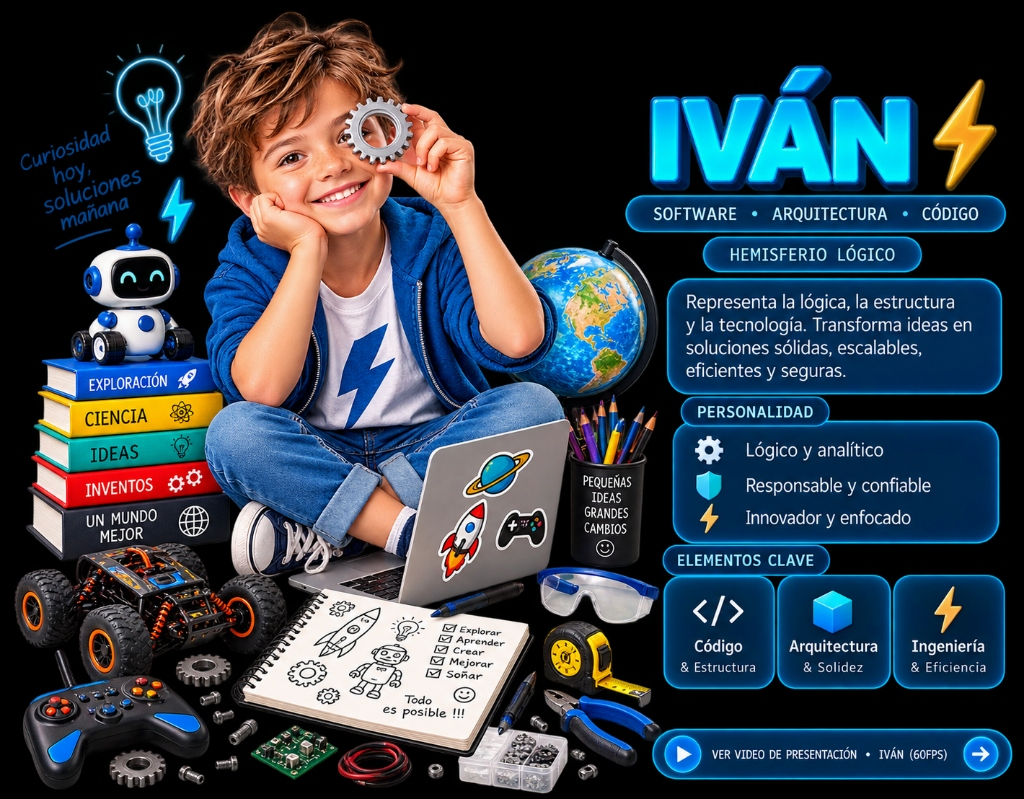
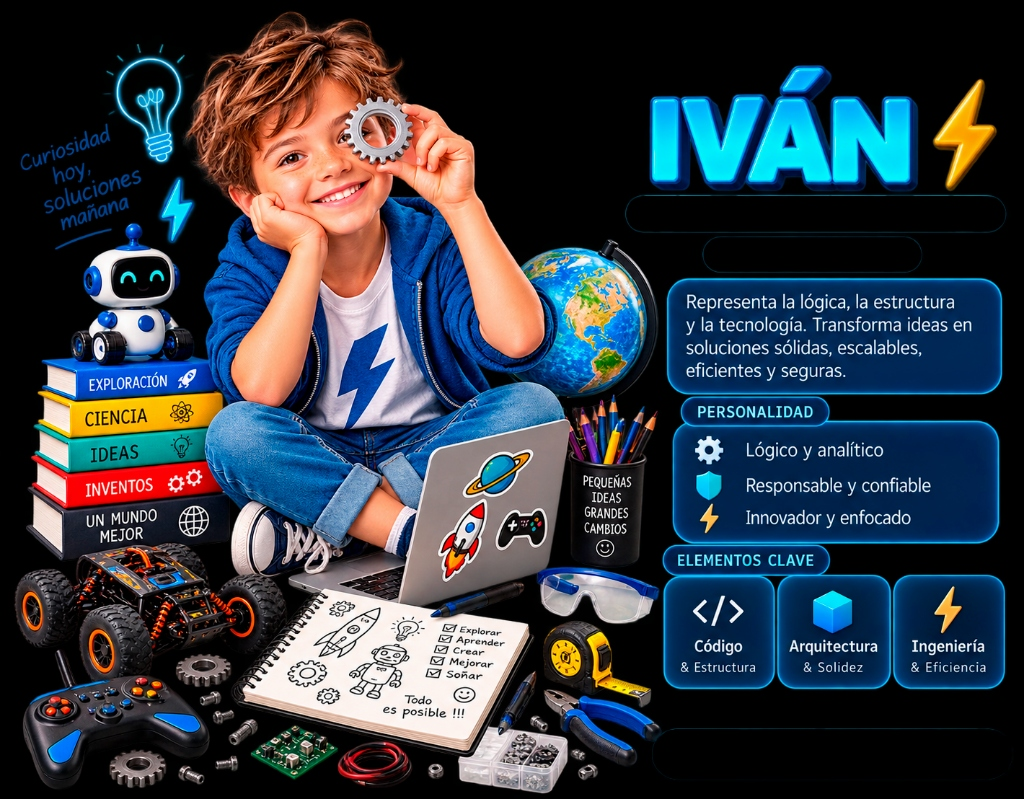
feat(ai-personas): integrate clean 3D master cards with responsive animated badges and interactive glowing video buttons

diff --git a/src/components/ai-personas/AIPersonasSection.tsx b/src/components/ai-personas/AIPersonasSection.tsx
@@ -35,7 +35,7 @@ export default function AIPersonasSection() {
       <div className="absolute top-1/4 left-0 w-96 h-96 bg-[#FF3858]/10 rounded-full blur-[140px] pointer-events-none" />
       <div className="absolute top-1/4 right-0 w-96 h-96 bg-[#00D1FF]/10 rounded-full blur-[140px] pointer-events-none" />
 
-      <div className="max-w-[1440px] mx-auto px-6 sm:px-8 relative z-10 space-y-12">
+      <div className="max-w-[1440px] mx-auto px-4 sm:px-6 lg:px-8 relative z-10 space-y-12">
         {/* Section Header */}
         <div className="text-center max-w-3xl mx-auto space-y-3">
           <div className="inline-flex items-center gap-2 px-4 py-1.5 rounded-full bg-white/[0.04] border border-white/15 text-xs font-mono tracking-wider text-[#FF3858] uppercase shadow-lg">
@@ -66,55 +66,88 @@ export default function AIPersonasSection() {
 
           <div className="grid grid-cols-1 lg:grid-cols-2 gap-8 lg:gap-10 items-stretch">
             {/* ========================================================== */}
-            {/* CARD 1: SOFÍA (3D MASTER PIECE ARTWORK) */}
+            {/* CARD 1: SOFÍA (3D MASTER PIECE CON OVERLAYS ANIMADOS) */}
             {/* ========================================================== */}
-            <div
-              onClick={() =>
-                setActiveVideo({
-                  title: "Sofía",
-                  role: "Dirección UI/UX & Creatividad",
-                  subtitle: "Hemisferio Creativo • Prototipos Interactivos a 60FPS",
-                  videoSrc: "/videos/sofia_presentacion.mp4",
-                  themeColor: "#FF3858",
-                  secondaryColor: "#FF7A00",
-                  avatarImg: "/images/sofia_seated_art.jpg",
-                  icon: "🖌",
-                })
-              }
-              className="group relative rounded-[38px] bg-[#07070F] border-2 border-[#FF3858]/60 hover:border-[#FF3858] backdrop-blur-2xl shadow-[0_20px_60px_rgba(255,56,88,0.22)] hover:shadow-[0_30px_90px_rgba(255,56,88,0.55)] transition-all duration-500 overflow-hidden cursor-pointer hover:scale-[1.015] active:scale-[0.99] flex flex-col justify-between"
-              title="Haz clic para ver el video de presentación oficial de Sofía"
-            >
+            <div className="group relative rounded-[38px] bg-[#07070F] border-2 border-[#FF3858]/60 hover:border-[#FF3858] backdrop-blur-2xl shadow-[0_20px_60px_rgba(255,56,88,0.22)] hover:shadow-[0_30px_90px_rgba(255,56,88,0.55)] transition-all duration-500 overflow-hidden select-none">
               {/* Top Ambient Glow */}
               <div className="absolute top-0 right-0 w-80 h-80 bg-[#FF3858]/20 rounded-full blur-[110px] pointer-events-none" />
 
-              {/* High-Resolution 3D Master Artwork */}
-              <div className="relative w-full aspect-[1024/840] overflow-hidden rounded-[36px]">
+              {/* High-Resolution 3D Master Artwork Container */}
+              <div className="relative w-full aspect-[1024/828] overflow-hidden rounded-[36px]">
                 <Image
                   src="/images/sofia_master_card.jpg"
                   alt="Sofía - Diseño, UX y Creatividad • Hemisferio Creativo Innocentia Tech"
                   fill
-                  className="object-cover transition-transform duration-700 group-hover:scale-[1.02]"
+                  className="object-cover transition-transform duration-700 group-hover:scale-[1.01]"
                   priority
                 />
 
-                {/* Subtle Interactive Hover Highlight */}
-                <div className="absolute inset-0 bg-gradient-to-t from-black/60 via-transparent to-transparent opacity-0 group-hover:opacity-100 transition-opacity duration-300 pointer-events-none" />
-
-                {/* Floating 60FPS Play Badge (Appears on Hover) */}
-                <div className="absolute top-4 right-4 z-20 opacity-0 group-hover:opacity-100 transition-all duration-300 transform translate-y-1 group-hover:translate-y-0">
-                  <div className="px-3 py-1.5 rounded-full bg-[#FF3858] text-white text-[10px] font-mono font-black uppercase tracking-wider flex items-center gap-1.5 shadow-[0_0_20px_#FF3858]">
-                    <Play className="w-3 h-3 fill-white text-white" />
-                    <span>VER VIDEO 60FPS</span>
+                {/* Left Area Click Trigger (Avatar) */}
+                <div
+                  onClick={() =>
+                    setActiveVideo({
+                      title: "Sofía",
+                      role: "Dirección UI/UX & Creatividad",
+                      subtitle: "Hemisferio Creativo • Prototipos Interactivos a 60FPS",
+                      videoSrc: "/videos/sofia_presentacion.mp4",
+                      themeColor: "#FF3858",
+                      secondaryColor: "#FF7A00",
+                      avatarImg: "/images/sofia_seated_art.jpg",
+                      icon: "🖌",
+                    })
+                  }
+                  className="absolute top-0 left-0 bottom-0 w-[48%] z-10 cursor-pointer group/avatar"
+                  title="Haz clic para ver el video de presentación de Sofía"
+                >
+                  <div className="absolute inset-0 flex items-center justify-center opacity-0 group-hover/avatar:opacity-100 transition-opacity duration-300">
+                    <div className="w-14 h-14 rounded-full bg-[#FF3858] text-white flex items-center justify-center shadow-[0_0_35px_#FF3858] transform scale-90 group-hover/avatar:scale-100 transition-transform">
+                      <Play className="w-6 h-6 fill-white ml-0.5" />
+                    </div>
                   </div>
                 </div>
 
-                {/* Interactive Click Target on Bottom Pill Area */}
-                <div className="absolute bottom-3 left-4 right-4 z-20 flex items-center justify-center pointer-events-none">
-                  <div className="w-full py-1 rounded-full opacity-0 group-hover:opacity-100 transition-opacity duration-300 bg-[#FF3858]/20 border border-[#FF3858]/50 backdrop-blur-sm text-center">
-                    <span className="text-[10px] font-mono font-bold text-white uppercase tracking-wider">
-                      ✦ Clic para reproducir video de Sofía ✦
-                    </span>
+                {/* ANIMATED OVERLAY 1: SUBTITLE PILL ("DISEÑO • UX • CREATIVIDAD") */}
+                <div className="absolute top-[26.2%] left-[57.5%] right-[4.5%] flex items-center justify-center pointer-events-none z-10">
+                  <div className="w-full py-0.5 sm:py-1 px-2 rounded-full bg-black/60 border border-[#FF7A00]/50 text-[#FF9E00] text-[9px] sm:text-[11px] md:text-xs font-mono font-bold uppercase tracking-wider text-center shadow-[0_0_10px_rgba(255,122,0,0.3)] backdrop-blur-sm truncate">
+                    DISEÑO • UX • CREATIVIDAD
                   </div>
+                </div>
+
+                {/* ANIMATED OVERLAY 2: HEMISFERIO PILL ("HEMISFERIO CREATIVO") */}
+                <div className="absolute top-[32.2%] left-[62%] right-[11%] flex items-center justify-center pointer-events-none z-10">
+                  <div className="w-full py-0.5 sm:py-1 px-2 rounded-full bg-[#FF3858]/25 border border-[#FF3858]/60 text-[#FF5470] text-[8px] sm:text-[10px] md:text-[11px] font-mono font-extrabold uppercase tracking-wider text-center shadow-[0_0_15px_rgba(255,56,88,0.4)] backdrop-blur-sm animate-pulse truncate">
+                    HEMISFERIO CREATIVO
+                  </div>
+                </div>
+
+                {/* ANIMATED OVERLAY 3: BOTTOM REAL GLOWING VIDEO BUTTON */}
+                <div className="absolute bottom-[2.5%] left-[48.5%] right-[2%] h-[8%] min-h-[30px] sm:min-h-[36px] flex items-center z-20">
+                  <button
+                    type="button"
+                    onClick={() =>
+                      setActiveVideo({
+                        title: "Sofía",
+                        role: "Dirección UI/UX & Creatividad",
+                        subtitle: "Hemisferio Creativo • Prototipos Interactivos a 60FPS",
+                        videoSrc: "/videos/sofia_presentacion.mp4",
+                        themeColor: "#FF3858",
+                        secondaryColor: "#FF7A00",
+                        avatarImg: "/images/sofia_seated_art.jpg",
+                        icon: "🖌",
+                      })
+                    }
+                    className="w-full h-full px-2 sm:px-3 rounded-full bg-gradient-to-r from-[#FF3858]/90 via-[#FF5470] to-[#FF7A00]/90 hover:from-[#FF4D6D] hover:to-[#FF8800] border border-white/30 text-white font-mono font-black text-[9px] sm:text-[10px] md:text-xs tracking-wider flex items-center justify-between gap-1.5 shadow-[0_0_25px_rgba(255,56,88,0.5)] hover:shadow-[0_0_40px_rgba(255,56,88,0.8)] transition-all cursor-pointer hover:scale-[1.02] active:scale-98 group/btn"
+                  >
+                    <div className="w-5 h-5 sm:w-6 sm:h-6 rounded-full bg-white/20 flex items-center justify-center flex-shrink-0 group-hover/btn:scale-110 transition-transform">
+                      <Play className="w-2.5 h-2.5 sm:w-3 sm:h-3 fill-white text-white ml-0.5" />
+                    </div>
+                    <span className="uppercase font-extrabold text-white truncate drop-shadow-md">
+                      VER VIDEO DE PRESENTACIÓN • SOFÍA (60FPS)
+                    </span>
+                    <div className="w-5 h-5 sm:w-6 sm:h-6 rounded-full bg-white/20 flex items-center justify-center flex-shrink-0 group-hover/btn:translate-x-0.5 transition-transform">
+                      <ArrowRight className="w-2.5 h-2.5 sm:w-3 sm:h-3 text-white" />
+                    </div>
+                  </button>
                 </div>
               </div>
 
@@ -128,55 +161,88 @@ export default function AIPersonasSection() {
             </div>
 
             {/* ========================================================== */}
-            {/* CARD 2: IVÁN (3D MASTER PIECE ARTWORK) */}
+            {/* CARD 2: IVÁN (3D MASTER PIECE CON OVERLAYS ANIMADOS) */}
             {/* ========================================================== */}
-            <div
-              onClick={() =>
-                setActiveVideo({
-                  title: "Iván",
-                  role: "CEO & Arquitectura Tech",
-                  subtitle: "Hemisferio Lógico • Ingeniería de Software & Cloud",
-                  videoSrc: "/videos/ivan_presentacion.mp4",
-                  themeColor: "#00D1FF",
-                  secondaryColor: "#3A86FF",
-                  avatarImg: "/images/ivan_seated_tech.jpg",
-                  icon: "⚡",
-                })
-              }
-              className="group relative rounded-[38px] bg-[#07070F] border-2 border-[#00D1FF]/60 hover:border-[#00D1FF] backdrop-blur-2xl shadow-[0_20px_60px_rgba(0,209,255,0.22)] hover:shadow-[0_30px_90px_rgba(0,209,255,0.55)] transition-all duration-500 overflow-hidden cursor-pointer hover:scale-[1.015] active:scale-[0.99] flex flex-col justify-between"
-              title="Haz clic para ver el video de presentación oficial de Iván"
-            >
+            <div className="group relative rounded-[38px] bg-[#07070F] border-2 border-[#00D1FF]/60 hover:border-[#00D1FF] backdrop-blur-2xl shadow-[0_20px_60px_rgba(0,209,255,0.22)] hover:shadow-[0_30px_90px_rgba(0,209,255,0.55)] transition-all duration-500 overflow-hidden select-none">
               {/* Top Ambient Glow */}
               <div className="absolute top-0 right-0 w-80 h-80 bg-[#00D1FF]/20 rounded-full blur-[110px] pointer-events-none" />
 
-              {/* High-Resolution 3D Master Artwork */}
-              <div className="relative w-full aspect-[1024/840] overflow-hidden rounded-[36px]">
+              {/* High-Resolution 3D Master Artwork Container */}
+              <div className="relative w-full aspect-[1024/799] overflow-hidden rounded-[36px]">
                 <Image
                   src="/images/ivan_master_card.jpg"
                   alt="Iván - Software, Arquitectura y Código • Hemisferio Lógico Innocentia Tech"
                   fill
-                  className="object-cover transition-transform duration-700 group-hover:scale-[1.02]"
+                  className="object-cover transition-transform duration-700 group-hover:scale-[1.01]"
                   priority
                 />
 
-                {/* Subtle Interactive Hover Highlight */}
-                <div className="absolute inset-0 bg-gradient-to-t from-black/60 via-transparent to-transparent opacity-0 group-hover:opacity-100 transition-opacity duration-300 pointer-events-none" />
-
-                {/* Floating 60FPS Play Badge (Appears on Hover) */}
-                <div className="absolute top-4 right-4 z-20 opacity-0 group-hover:opacity-100 transition-all duration-300 transform translate-y-1 group-hover:translate-y-0">
-                  <div className="px-3 py-1.5 rounded-full bg-[#00D1FF] text-black text-[10px] font-mono font-black uppercase tracking-wider flex items-center gap-1.5 shadow-[0_0_20px_#00D1FF]">
-                    <Play className="w-3 h-3 fill-black text-black" />
-                    <span>VER VIDEO 60FPS</span>
+                {/* Left Area Click Trigger (Avatar) */}
+                <div
+                  onClick={() =>
+                    setActiveVideo({
+                      title: "Iván",
+                      role: "CEO & Arquitectura Tech",
+                      subtitle: "Hemisferio Lógico • Ingeniería de Software & Cloud",
+                      videoSrc: "/videos/ivan_presentacion.mp4",
+                      themeColor: "#00D1FF",
+                      secondaryColor: "#3A86FF",
+                      avatarImg: "/images/ivan_seated_tech.jpg",
+                      icon: "⚡",
+                    })
+                  }
+                  className="absolute top-0 left-0 bottom-0 w-[55%] z-10 cursor-pointer group/avatar"
+                  title="Haz clic para ver el video de presentación de Iván"
+                >
+                  <div className="absolute inset-0 flex items-center justify-center opacity-0 group-hover/avatar:opacity-100 transition-opacity duration-300">
+                    <div className="w-14 h-14 rounded-full bg-[#00D1FF] text-black flex items-center justify-center shadow-[0_0_35px_#00D1FF] transform scale-90 group-hover/avatar:scale-100 transition-transform">
+                      <Play className="w-6 h-6 fill-black ml-0.5" />
+                    </div>
                   </div>
                 </div>
 
-                {/* Interactive Click Target on Bottom Pill Area */}
-                <div className="absolute bottom-3 left-4 right-4 z-20 flex items-center justify-center pointer-events-none">
-                  <div className="w-full py-1 rounded-full opacity-0 group-hover:opacity-100 transition-opacity duration-300 bg-[#00D1FF]/20 border border-[#00D1FF]/50 backdrop-blur-sm text-center">
-                    <span className="text-[10px] font-mono font-bold text-white uppercase tracking-wider">
-                      ✦ Clic para reproducir video de Iván ✦
-                    </span>
+                {/* ANIMATED OVERLAY 1: SUBTITLE PILL ("SOFTWARE • ARQUITECTURA • CÓDIGO") */}
+                <div className="absolute top-[24.2%] left-[61%] right-[3%] flex items-center justify-center pointer-events-none z-10">
+                  <div className="w-full py-0.5 sm:py-1 px-2 rounded-full bg-black/60 border border-[#3A86FF]/50 text-[#3A86FF] text-[9px] sm:text-[11px] md:text-xs font-mono font-bold uppercase tracking-wider text-center shadow-[0_0_10px_rgba(58,134,255,0.3)] backdrop-blur-sm truncate">
+                    SOFTWARE • ARQUITECTURA • CÓDIGO
                   </div>
+                </div>
+
+                {/* ANIMATED OVERLAY 2: HEMISFERIO PILL ("HEMISFERIO LÓGICO") */}
+                <div className="absolute top-[30.2%] left-[68.5%] right-[9.5%] flex items-center justify-center pointer-events-none z-10">
+                  <div className="w-full py-0.5 sm:py-1 px-2 rounded-full bg-[#00D1FF]/25 border border-[#00D1FF]/60 text-[#00D1FF] text-[8px] sm:text-[10px] md:text-[11px] font-mono font-extrabold uppercase tracking-wider text-center shadow-[0_0_15px_rgba(0,209,255,0.4)] backdrop-blur-sm animate-pulse truncate">
+                    HEMISFERIO LÓGICO
+                  </div>
+                </div>
+
+                {/* ANIMATED OVERLAY 3: BOTTOM REAL GLOWING VIDEO BUTTON */}
+                <div className="absolute bottom-[2.6%] left-[63.5%] right-[2%] h-[8%] min-h-[30px] sm:min-h-[36px] flex items-center z-20">
+                  <button
+                    type="button"
+                    onClick={() =>
+                      setActiveVideo({
+                        title: "Iván",
+                        role: "CEO & Arquitectura Tech",
+                        subtitle: "Hemisferio Lógico • Ingeniería de Software & Cloud",
+                        videoSrc: "/videos/ivan_presentacion.mp4",
+                        themeColor: "#00D1FF",
+                        secondaryColor: "#3A86FF",
+                        avatarImg: "/images/ivan_seated_tech.jpg",
+                        icon: "⚡",
+                      })
+                    }
+                    className="w-full h-full px-2 sm:px-3 rounded-full bg-gradient-to-r from-[#00D1FF]/90 via-[#00B4D8] to-[#3A86FF]/90 hover:from-[#00E5FF] hover:to-[#4D94FF] border border-white/30 text-black font-mono font-black text-[9px] sm:text-[10px] md:text-xs tracking-wider flex items-center justify-between gap-1.5 shadow-[0_0_25px_rgba(0,209,255,0.5)] hover:shadow-[0_0_40px_rgba(0,209,255,0.8)] transition-all cursor-pointer hover:scale-[1.02] active:scale-98 group/btn"
+                  >
+                    <div className="w-5 h-5 sm:w-6 sm:h-6 rounded-full bg-black/20 flex items-center justify-center flex-shrink-0 group-hover/btn:scale-110 transition-transform">
+                      <Play className="w-2.5 h-2.5 sm:w-3 sm:h-3 fill-black text-black ml-0.5" />
+                    </div>
+                    <span className="uppercase font-black text-black truncate drop-shadow-sm">
+                      VER VIDEO DE PRESENTACIÓN • IVÁN (60FPS)
+                    </span>
+                    <div className="w-5 h-5 sm:w-6 sm:h-6 rounded-full bg-black/20 flex items-center justify-center flex-shrink-0 group-hover/btn:translate-x-0.5 transition-transform">
+                      <ArrowRight className="w-2.5 h-2.5 sm:w-3 sm:h-3 text-black" />
+                    </div>
+                  </button>
                 </div>
               </div>
 
